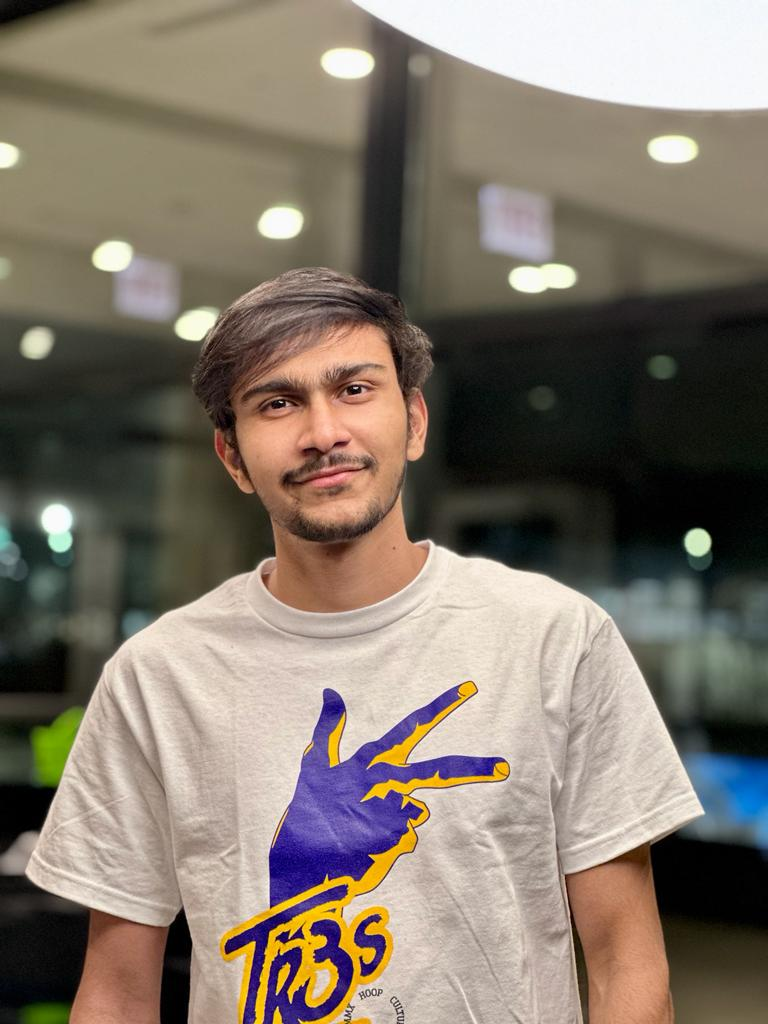
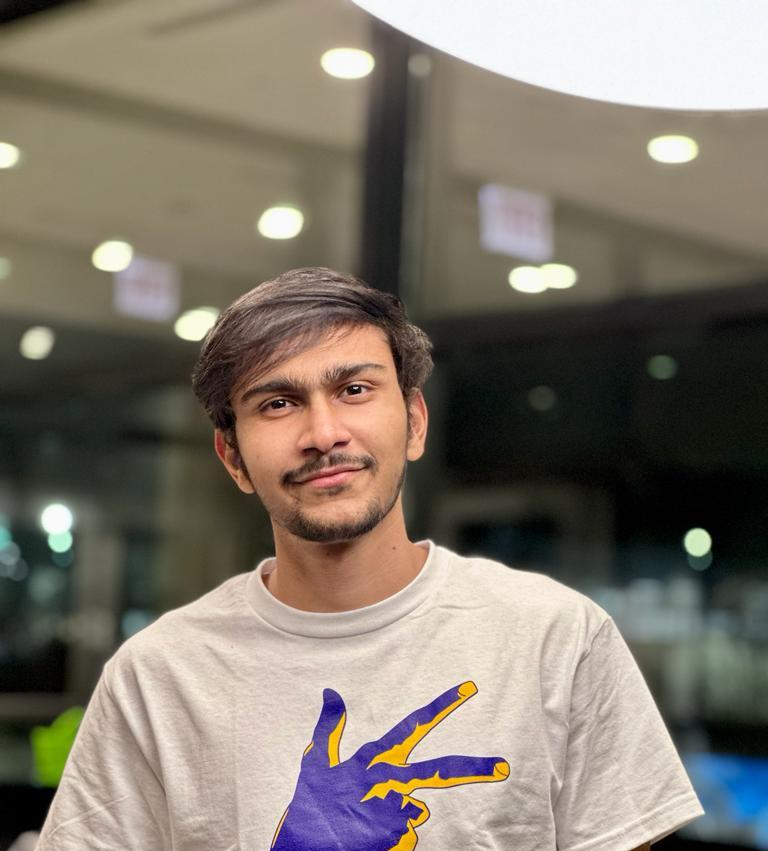
added profile image

diff --git a/index.html b/index.html
@@ -94,7 +94,7 @@
 
         <div class="row">
           <div class="col-lg-4" data-aos="fade-right">
-            <img src="assets/img/profile-img.jpg" class="img-fluid" alt="">
+            <img src="assets/img/kk3.jpeg" class="img-fluid" alt="">
           </div>
           <div class="col-lg-8 pt-4 pt-lg-0 content" data-aos="fade-left">
             <h3>Grad Student &amp; Full Stack Developer.</h3>

diff --git a/assets/css/style.css b/assets/css/style.css
@@ -228,7 +228,7 @@ h6 {
 #hero {
   width: 100%;
   height: 100vh;
-  background: url("../img/hero-bg.jpg") top center;
+  background: url("../img/q1.jpeg") top center;
   background-size: cover;
 }
 
